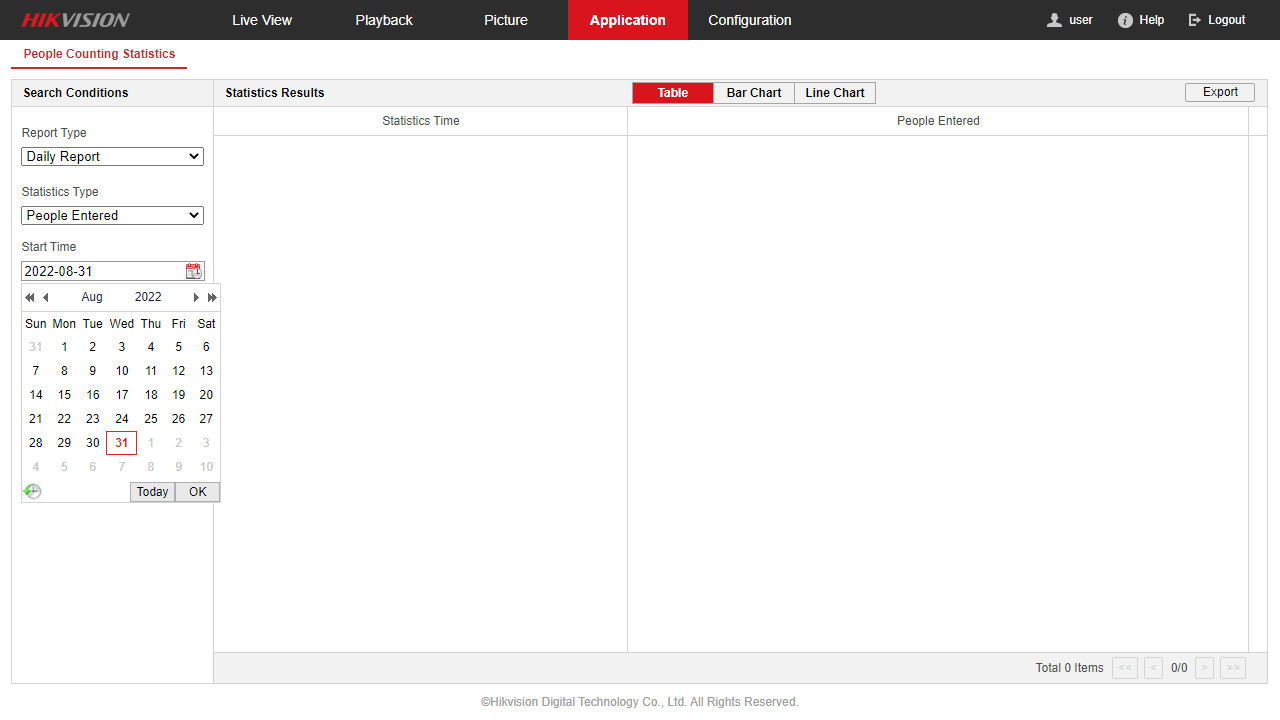
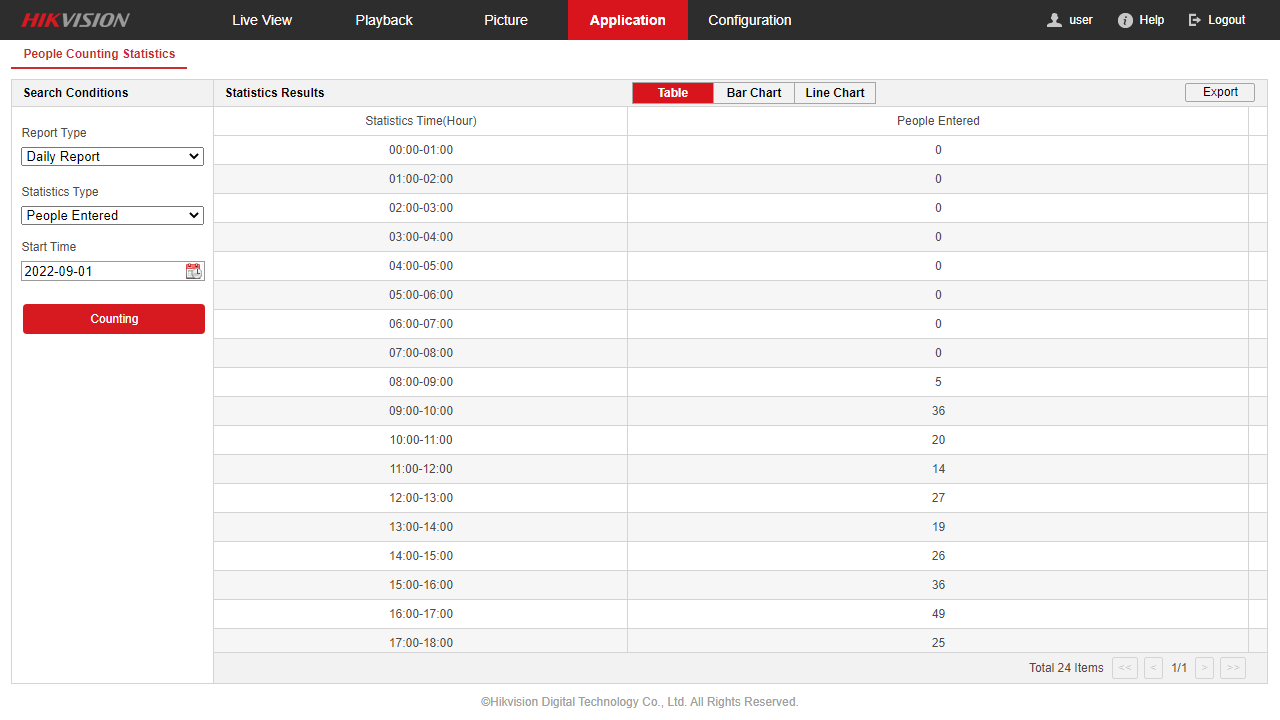
prueba extraccion de datos

diff --git a/src/temp.js b/src/temp.js
@@ -23,4 +23,66 @@ import { baseUrl, credentials } from "./utils.js";
   //  page.on("console", (msg) => messages.push(`[${msg.type()}] ${msg.text()}`));
 
   await browser.close();
-})();
+})();class="WdayTable"
+<table class="WdayTable" width="100%" cellspacing="0" cellpadding="0" border="0"><tbody><tr class="MTitle" align="center"><td class="WdayTableWeek">Sun</td><td class="WdayTableWeek">Mon</td><td class="WdayTableWeek">Tue</td><td class="WdayTableWeek">Wed</td><td class="WdayTableWeek">Thu</td><td class="WdayTableWeek">Fri</td><td class="WdayTableWeek">Sat</td></tr><tr><td onclick="day_Click(2022,7,31);" onmouseover="this.className='WotherDayOn'" onmouseout="this.className='WotherDay'" class="WotherDay">31</td><td onclick="day_Click(2022,8,1);" onmouseover="this.className='WdayOn'" onmouseout="this.className='Wday'" class="Wday">1</td><td onclick="day_Click(2022,8,2);" onmouseover="this.className='WdayOn'" onmouseout="this.className='Wday'" class="Wday">2</td><td onclick="day_Click(2022,8,3);" onmouseover="this.className='WdayOn'" onmouseout="this.className='Wday'" class="Wday">3</td><td onclick="day_Click(2022,8,4);" onmouseover="this.className='WdayOn'" onmouseout="this.className='Wday'" class="Wday">4</td><td onclick="day_Click(2022,8,5);" onmouseover="this.className='WdayOn'" onmouseout="this.className='Wday'" class="Wday">5</td><td onclick="day_Click(2022,8,6);" onmouseover="this.className='WwdayOn'" onmouseout="this.className='Wwday'" class="Wwday">6</td></tr><tr><td onclick="day_Click(2022,8,7);" onmouseover="this.className='WwdayOn'" onmouseout="this.className='Wwday'" class="Wwday">7</td><td onclick="day_Click(2022,8,8);" onmouseover="this.className='WdayOn'" onmouseout="this.className='Wday'" class="Wday">8</td><td onclick="day_Click(2022,8,9);" onmouseover="this.className='WdayOn'" onmouseout="this.className='Wday'" class="Wday">9</td><td onclick="day_Click(2022,8,10);" onmouseover="this.className='WdayOn'" onmouseout="this.className='Wday'" class="Wday">10</td><td onclick="day_Click(2022,8,11);" onmouseover="this.className='WdayOn'" onmouseout="this.className='Wday'" class="Wday">11</td><td onclick="day_Click(2022,8,12);" onmouseover="this.className='WdayOn'" onmouseout="this.className='Wday'" class="Wday">12</td><td onclick="day_Click(2022,8,13);" onmouseover="this.className='WwdayOn'" onmouseout="this.className='Wwday'" class="Wwday">13</td></tr><tr><td onclick="day_Click(2022,8,14);" onmouseover="this.className='WwdayOn'" onmouseout="this.className='Wwday'" class="Wwday">14</td><td onclick="day_Click(2022,8,15);" onmouseover="this.className='WdayOn'" onmouseout="this.className='Wday'" class="Wday">15</td><td onclick="day_Click(2022,8,16);" onmouseover="this.className='WdayOn'" onmouseout="this.className='Wday'" class="Wday">16</td><td onclick="day_Click(2022,8,17);" onmouseover="this.className='WdayOn'" onmouseout="this.className='Wday'" class="Wday">17</td><td onclick="day_Click(2022,8,18);" onmouseover="this.className='WdayOn'" onmouseout="this.className='Wday'" class="Wday">18</td><td onclick="day_Click(2022,8,19);" onmouseover="this.className='WdayOn'" onmouseout="this.className='Wday'" class="Wday">19</td><td onclick="day_Click(2022,8,20);" onmouseover="this.className='WwdayOn'" onmouseout="this.className='Wwday'" class="Wwday">20</td></tr><tr><td onclick="day_Click(2022,8,21);" onmouseover="this.className='WwdayOn'" onmouseout="this.className='Wwday'" class="Wwday">21</td><td onclick="day_Click(2022,8,22);" onmouseover="this.className='WdayOn'" onmouseout="this.className='Wday'" class="Wday">22</td><td onclick="day_Click(2022,8,23);" onmouseover="this.className='WdayOn'" onmouseout="this.className='Wday'" class="Wday">23</td><td onclick="day_Click(2022,8,24);" onmouseover="this.className='WdayOn'" onmouseout="this.className='Wday'" class="Wday">24</td><td onclick="day_Click(2022,8,25);" onmouseover="this.className='WdayOn'" onmouseout="this.className='Wday'" class="Wday">25</td><td onclick="day_Click(2022,8,26);" onmouseover="this.className='WdayOn'" onmouseout="this.className='Wday'" class="Wday">26</td><td onclick="day_Click(2022,8,27);" onmouseover="this.className='WwdayOn'" onmouseout="this.className='Wwday'" class="Wwday">27</td></tr><tr><td onclick="day_Click(2022,8,28);" onmouseover="this.className='WwdayOn'" onmouseout="this.className='Wwday'" class="Wwday">28</td><td onclick="day_Click(2022,8,29);" onmouseover="this.className='WdayOn'" onmouseout="this.className='Wselday'" class="Wselday">29</td><td onclick="day_Click(2022,8,30);" onmouseover="this.className='WdayOn'" onmouseout="this.className='Wday'" class="Wday">30</td><td onclick="day_Click(2022,8,31);" onmouseover="this.className='WdayOn'" onmouseout="this.className='Wtoday'" class="Wtoday">31</td><td onclick="day_Click(2022,9,1);" onmouseover="this.className='WotherDayOn'" onmouseout="this.className='WotherDay'" class="WotherDay">1</td><td onclick="day_Click(2022,9,2);" onmouseover="this.className='WotherDayOn'" onmouseout="this.className='WotherDay'" class="WotherDay">2</td><td onclick="day_Click(2022,9,3);" onmouseover="this.className='WotherDayOn'" onmouseout="this.className='WotherDay'" class="WotherDay">3</td></tr><tr><td onclick="day_Click(2022,9,4);" onmouseover="this.className='WotherDayOn'" onmouseout="this.className='WotherDay'" class="WotherDay">4</td><td onclick="day_Click(2022,9,5);" onmouseover="this.className='WotherDayOn'" onmouseout="this.className='WotherDay'" class="WotherDay">5</td><td onclick="day_Click(2022,9,6);" onmouseover="this.className='WotherDayOn'" onmouseout="this.className='WotherDay'" class="WotherDay">6</td><td onclick="day_Click(2022,9,7);" onmouseover="this.className='WotherDayOn'" onmouseout="this.className='WotherDay'" class="WotherDay">7</td><td onclick="day_Click(2022,9,8);" onmouseover="this.className='WotherDayOn'" onmouseout="this.className='WotherDay'" class="WotherDay">8</td><td onclick="day_Click(2022,9,9);" onmouseover="this.className='WotherDayOn'" onmouseout="this.className='WotherDay'" class="WotherDay">9</td><td onclick="day_Click(2022,9,10);" onmouseover="this.className='WotherDayOn'" onmouseout="this.className='WotherDay'" class="WotherDay">10</td></tr></tbody></table>
+
+
+
+// async function getRow(page) {
+//   const data = [];
+//   const allWeeks = await page.$$eval("tbody", (weeks) => {
+//     return weeks.map((week) => {
+//       const daysNum = [...Array(7).keys()].map((e) => e + 1);
+
+//       daysNum.forEach((num) => {
+//         data.push(week.querySelector(`td:nth-child(${num})`).innerText.trim());
+//       });
+//     });
+//   });
+//   console.log(`${allWeeks.length} weeks found`);
+//   console.dir(allWeeks);
+//   console.dir(data);
+//   return [allWeeks];
+// }
+
+  // TODO: ADD Function getWeeks
+
+  // const allWeeks = await page.$$eval("iframe", (weeks) => {
+  //   return weeks.map((week) => {
+  //     const td1 = week.querySelector(`td:nth-child(1)`);
+  //     return {
+  //       td1: td1.innerText.trim(),
+  //     };
+  //   });
+  // });
+  // console.log(`${allWeeks.length} weeks found`);
+  // console.dir(allWeeks);
+
+  //const rowTexts = await row.locator(':scope').allInnerTexts()
+  //await rowTexts.forEach((text) => {
+  //  console.log(text)
+  //})
+
+  //await page.locator(`text=${date}`).click();
+  // await page.locator(".wday").locator("td");
+
+  // TODO: ADD Function getWeeks https://javadoc.io/static/com.microsoft.playwright/playwright/0.180.0/com/microsoft/playwright/ElementHandle.html
+
+  // const allWeeks = await page.$$eval("iframe", (weeks) => {
+  //   return weeks.map((week) => {
+  //     const td1 = week.querySelector(`td:nth-child(1)`);
+  //     return {
+  //       td1: td1.innerText.trim(),
+  //     };
+  //   });
+  // });
+  // console.log(`${allWeeks.length} weeks found`);
+  // console.dir(allWeeks);
+
+  //const rowTexts = await row.locator(':scope').allInnerTexts()
+  //await rowTexts.forEach((text) => {
+  //  console.log(text)
+  //})
+
+  //await page.locator(`text=${date}`).click();
+  // await page.locator(".wday").locator("td");

diff --git a/src/index.js b/src/index.js
@@ -17,19 +17,23 @@ import { baseUrl, credentials } from "./utils.js";
   await delayTime(15);
   await page.context().storageState({ path: "credentials.json" });
   await page.screenshot({ path: "prueba2.png" });
-  //await page.locator('td[class="Wday"]').click();
-  await page.click('input[class="Wdate ng-isolate-scope"]');
+  //await page.screenshot({ path: "prueba3.png" });
   await delayTime(4);
 
-  // TODO: ADD Function getWeeks
-  await getRow(page);
-
-  //await page.locator(`text=${date}`).click();
-  // await page.locator(".wday").locator("td");
-
-  await page.screenshot({ path: "prueba3.png" });
-  await delayTime(4);
+  await page.click('button[class="btn search-btn"]');
+  await delayTime(5);
   await page.screenshot({ path: "prueba4.png" });
+
+  // const allWeeks = await page.$$eval('div["class=table-body"]', (weeks) => {
+  //   return weeks.map((week) => {
+  //     const td1 = week.querySelector(`div:nth-child(1)`);
+  //     return {
+  //       td1: td1.innerText.trim(),
+  //     };
+  //   });
+  // });
+  // console.log(`${allWeeks.length} weeks found`);
+  // console.dir(allWeeks);
   await browser.close();
 })();
 
@@ -39,21 +43,4 @@ function delayTime(second = 1) {
       res(true);
     }, second * 1000);
   });
-}
-
-async function getRow(page) {
-  const data = [];
-  const allWeeks = await page.locator("tbody", (weeks) => {
-    return weeks.map((week) => {
-      const daysNum = [...Array(7).keys()].map((e) => e + 1);
-
-      daysNum.forEach((num) => {
-        data.push(week.querySelector(`td:nth-child(${num})`));
-      });
-    });
-  });
-  console.log(`${allWeeks.length} weeks found`);
-  console.dir(allWeeks);
-  console.dir(data);
-  return [allWeeks];
 }

diff --git a/src/saveExcel.js b/src/saveExcel.js
@@ -1,0 +1,38 @@
+import getBrowser from "./getBrowser.js";
+import { baseUrl, credentials } from "./utils.js";
+import{ExcelJS} from "
+let data = []
+
+const saveExcel = (data) => {
+
+    const workbook = new ExcelJS.Workbook()
+
+    const fileName = `lista-de-iphones.xlsx`
+
+    const sheet = workbook.addWorksheet(`Resultados`)
+
+    const reColumns = [
+        { header: 'personas entrando', key: 'People Entered' }
+       
+    ]
+
+    sheet.columns = reColumns
+
+    sheet.addRows(data)
+
+    workbook.xlsx.writeFile(fileName).then((e) => {
+        console.log('Creado exitosamente');
+    })
+        .catch(() => {
+            console.log('Algo sucedio guardando el archivo EXCEL');
+        })
+}
+async () => {
+    const [page, browser] = await getBrowser();
+    const date = getPreviousDate().split("-")[2];
+    await page.goto(baseUrl);
+    await page.screenshot({ path: "prueba.png" });}
+
+    await page.fill('input[id="username"]', credentials.username);
+    await page.fill('input[id="password"]', credentials.password);
+    await page.click('button[class="btn btn-primary login-btn"]');

diff --git a/src/getPreviousDate.js b/src/getPreviousDate.js
@@ -4,7 +4,7 @@ export default function getPreviousDate() {
   let output =
     date.getFullYear() +
     separador +
-    String(date.getMonth() + 1).padStart(2, "0") +
+    String(date.getMonth() - 1 + 1).padStart(2, "0") +
     separador +
     String(date.getDate() - 1).padStart(2, "0");
   console.log(output);
